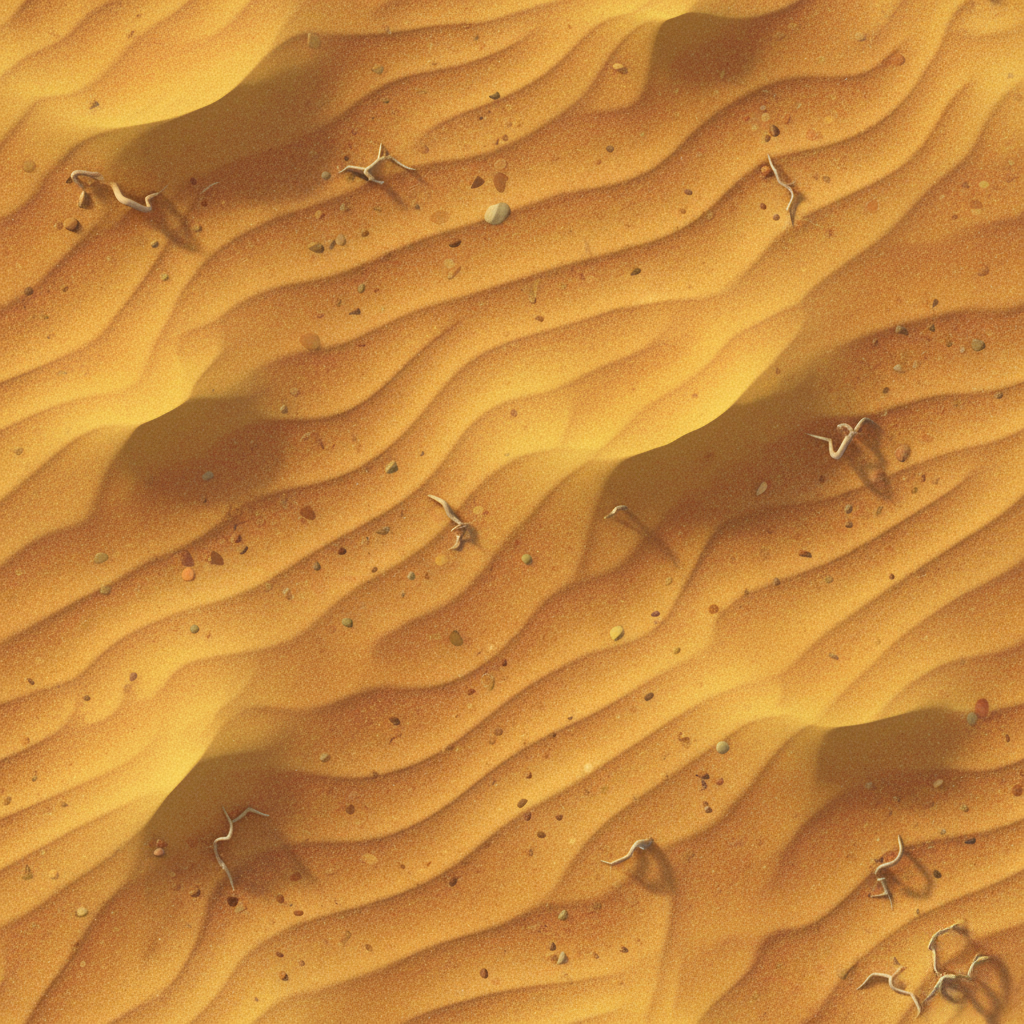
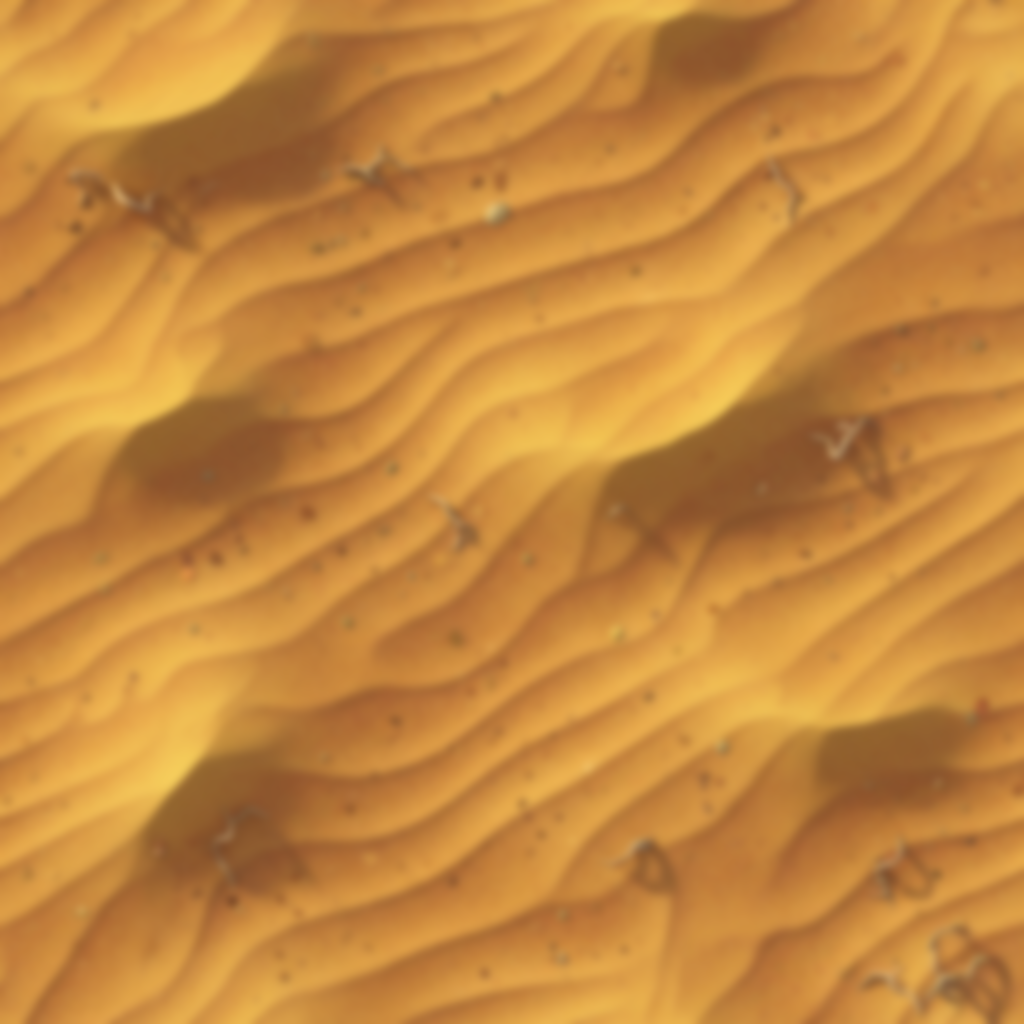
changed sand texture

diff --git a/game/scenes/SimuladorScene.js b/game/scenes/SimuladorScene.js
@@ -83,7 +83,7 @@ export const DEFAULT_PARAMS = Object.freeze({
     smoothing: 1.1,
     texture: Object.freeze({
       image: '/game-assets/simulador/sand.png',
-      tileWidthRatio: 0.1
+      tileWidthRatio: 0.24
     })
   }),
   sediment: Object.freeze({
